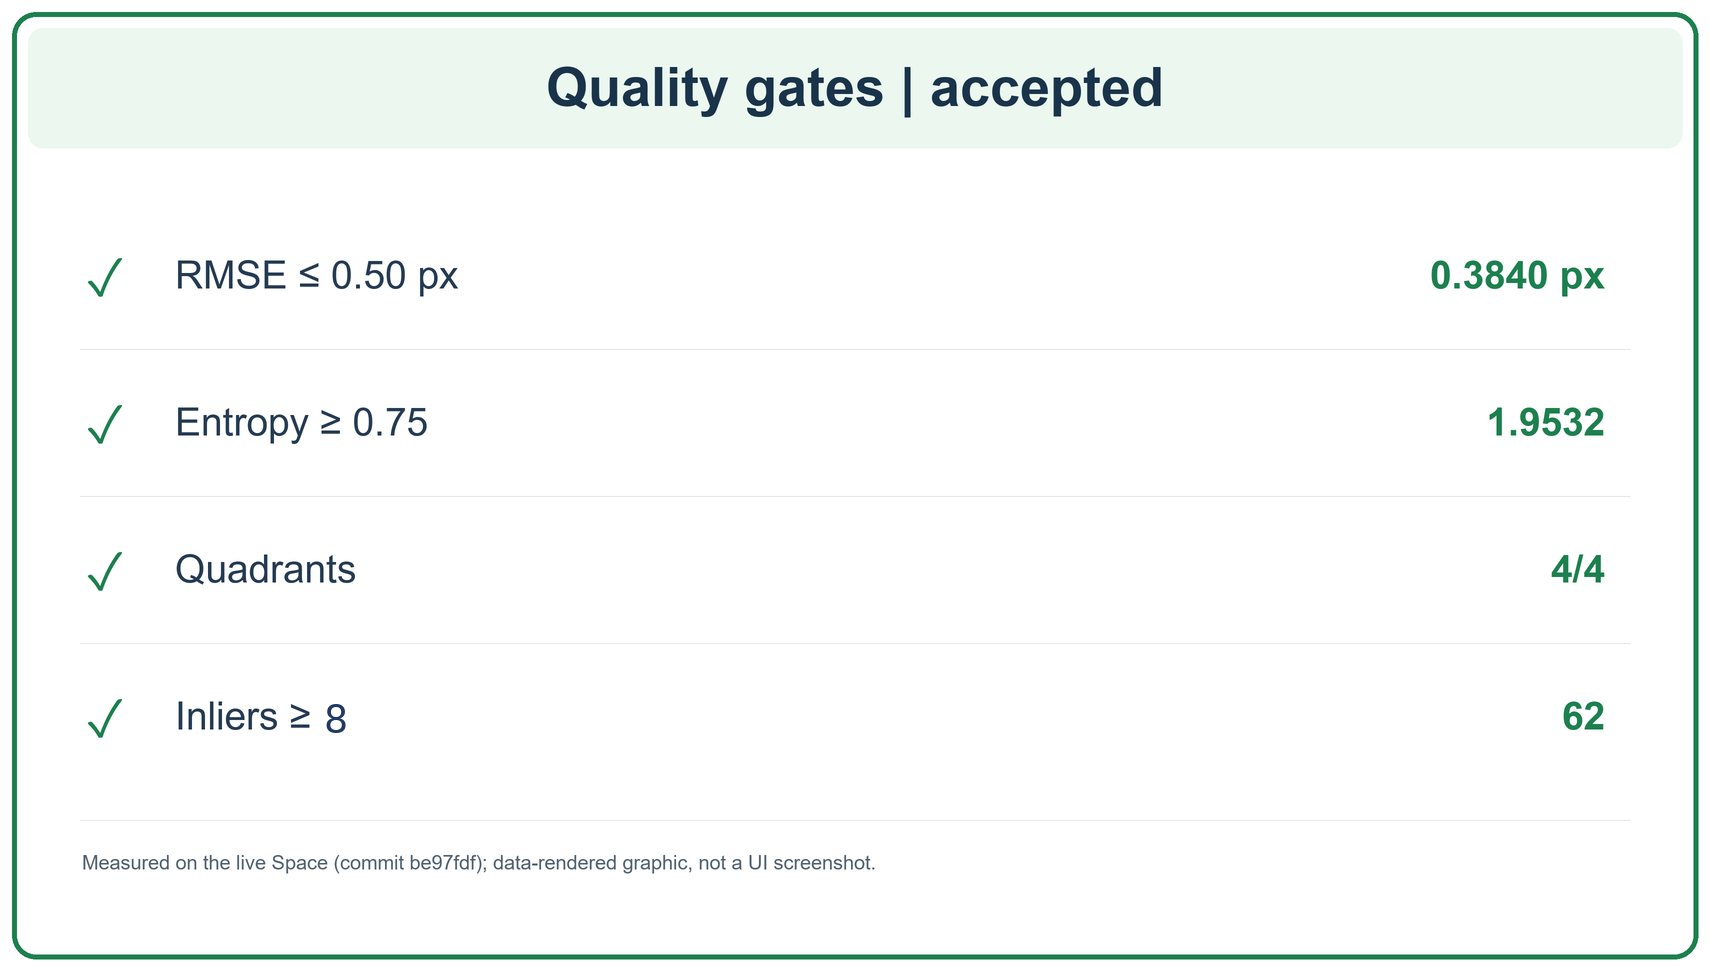
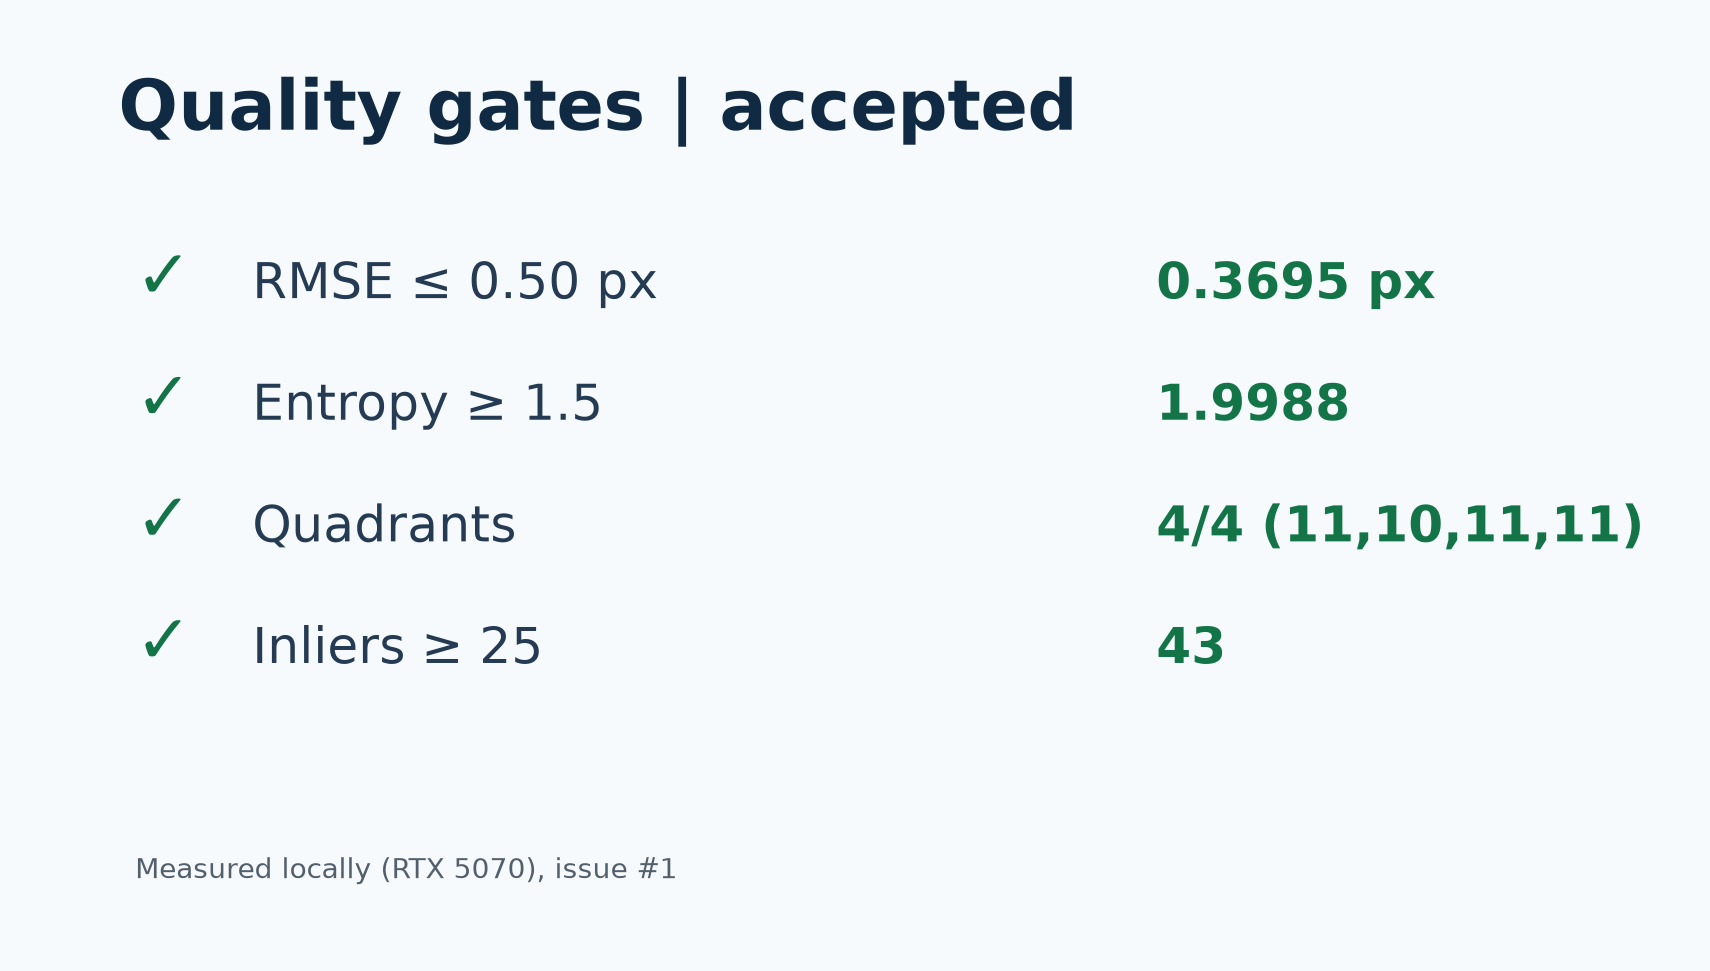
README: honest matcher status + regenerated gate visuals

diff --git a/README.md b/README.md
@@ -19,9 +19,9 @@ CHANDRA-ALIGN registers lunar imagery across sensor, illumination, and scale dif
 ## How It Works
 
 1. **Preprocessing** prepares image data for cross-sensor matching while respecting bounded image-size limits.
-2. **RIFT2 primary matching** finds candidate correspondences using illumination-tolerant features.
-3. **LightGlue/ALIKED deep matching** provides learned feature matching where the configured runtime supports it.
-4. **SIFT + Brute-Force RANSAC CPU fallback** estimates a robust transform when the primary/deep matching path is unavailable or does not yield a usable fit.
+2. **RIFT2 (non-functional, under investigation; not the primary matcher):** the Sept. 30 CPU audit and issue #1 RTX 5070 GPU validation returned 0–1 correspondences per pair, with no valid fits. See [`results/table_issue01_gpu_validation.csv`](results/table_issue01_gpu_validation.csv).
+3. **LightGlue/ALIKED GPU matching** is the validated deep-learning path: synthetic sub-pixel ACCEPT at 0.3695 px / 43 inliers; competitive real-pair results at 1.7961 px (OHRC) and 1.5558 px (TMC-2).
+4. **SIFT + Brute-Force RANSAC CPU fallback** estimates the transform as the validated CPU fallback.
 5. **Sub-pixel refinement** attempts NCC/parabolic refinement of the RANSAC estimate. If too few correspondences survive refinement, the pipeline retains the RANSAC model rather than promoting an unsupported refined fit.
 6. **Fail-safe spatial validation gate** classifies the result as **ACCEPT**, **COARSE ADVISORY**, or **REJECT** before export.
 
@@ -50,6 +50,20 @@ The matcher measurements below are recorded in [`results/table_issue01_gpu_valid
 | TMC2_fore_nadir | RIFT2 | 0 | N/A | 0 | 0.0000 | 0/4 (0,0,0,0) | REJECTED: Only 0 correspondences | 78.0995 |
 | TMC2_fore_nadir | LightGlue_ALIKED | 1537 | 1.5558 | 13 | 1.6692 | 4/4 (2,3,1,7) | COARSE ALIGNMENT (Regional Fit Advisory) | 3.1617 |
 | TMC2_fore_nadir | SIFT_RANSAC | 106 | 2.2259 | 24 | 1.7296 | 4/4 (4,6,2,12) | COARSE ALIGNMENT (Regional Fit Advisory) | 7.1537 |
+
+### Example Results
+
+<p align="center">
+	<img src="docs/images/gate-checklist-accepted.png" width="700" alt="LightGlue/ALIKED accepted synthetic-pair checklist" />
+</p>
+
+LightGlue/ALIKED on the calibrated synthetic pair — RMSE 0.3695 px, 43 inliers, entropy 1.9988, 4/4 quadrants: ACCEPTED (sub-pixel), measured on RTX 5070.
+
+<p align="center">
+	<img src="docs/images/gate-checklist-rejected.png" width="700" alt="RIFT2 rejected synthetic-pair checklist" />
+</p>
+
+RIFT2 produced 0 correspondences on the same input — rejected with transform telemetry masked (N/A). The failed primary is reported, not hidden.
 
 ## Run Locally
 
